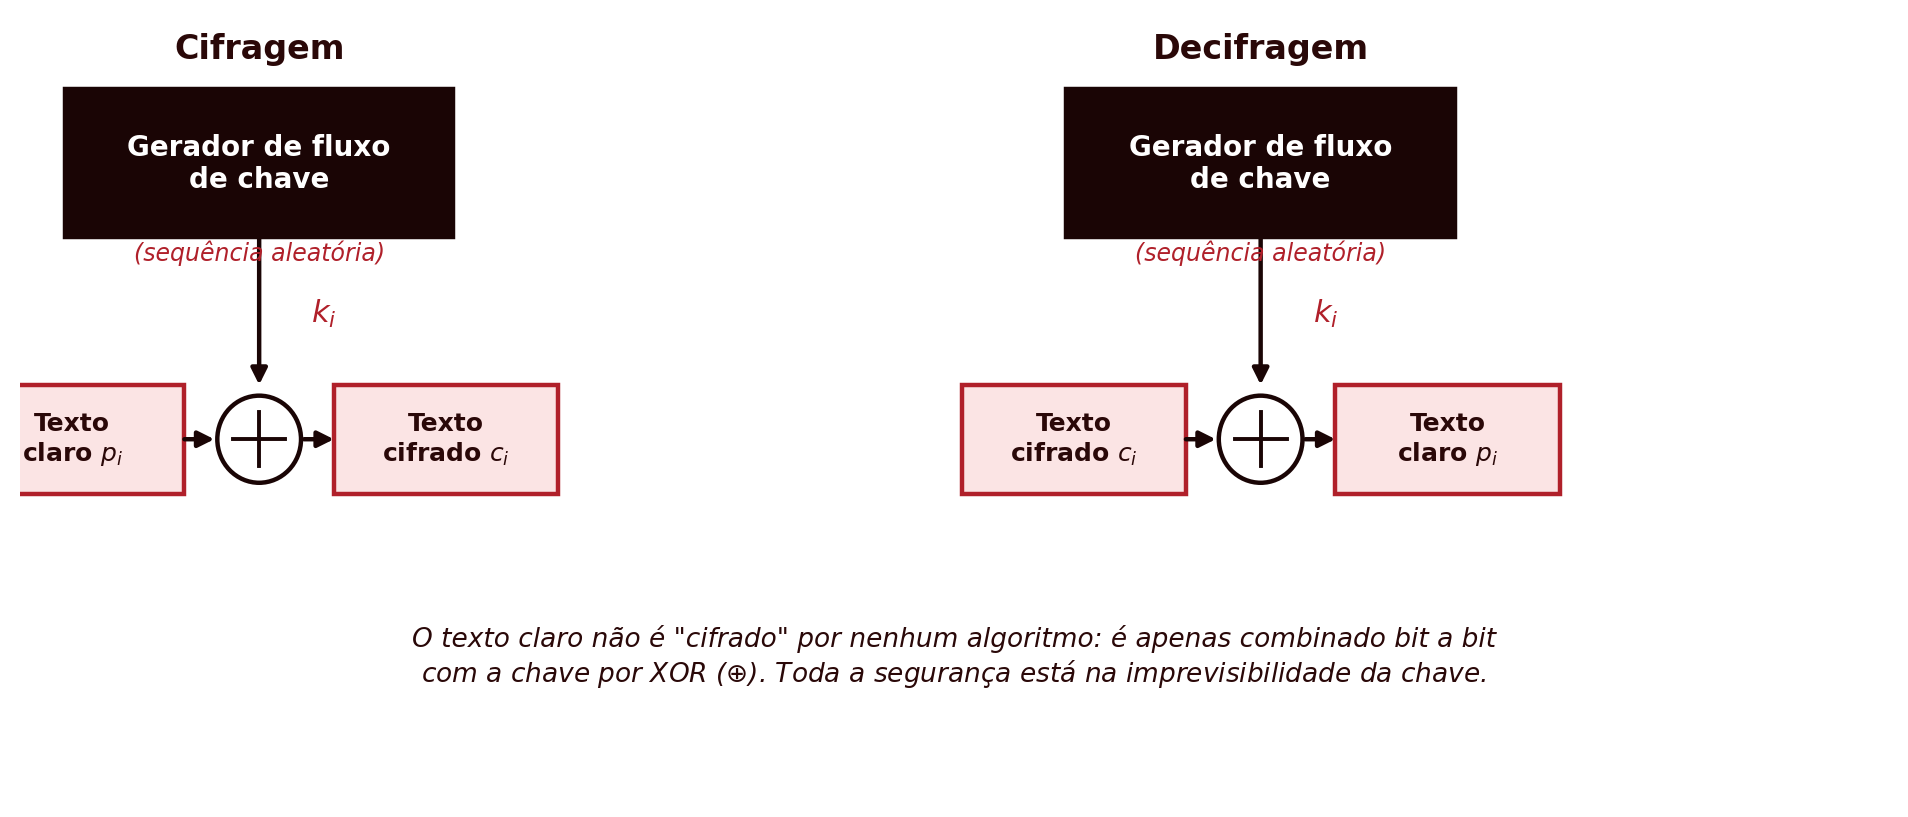
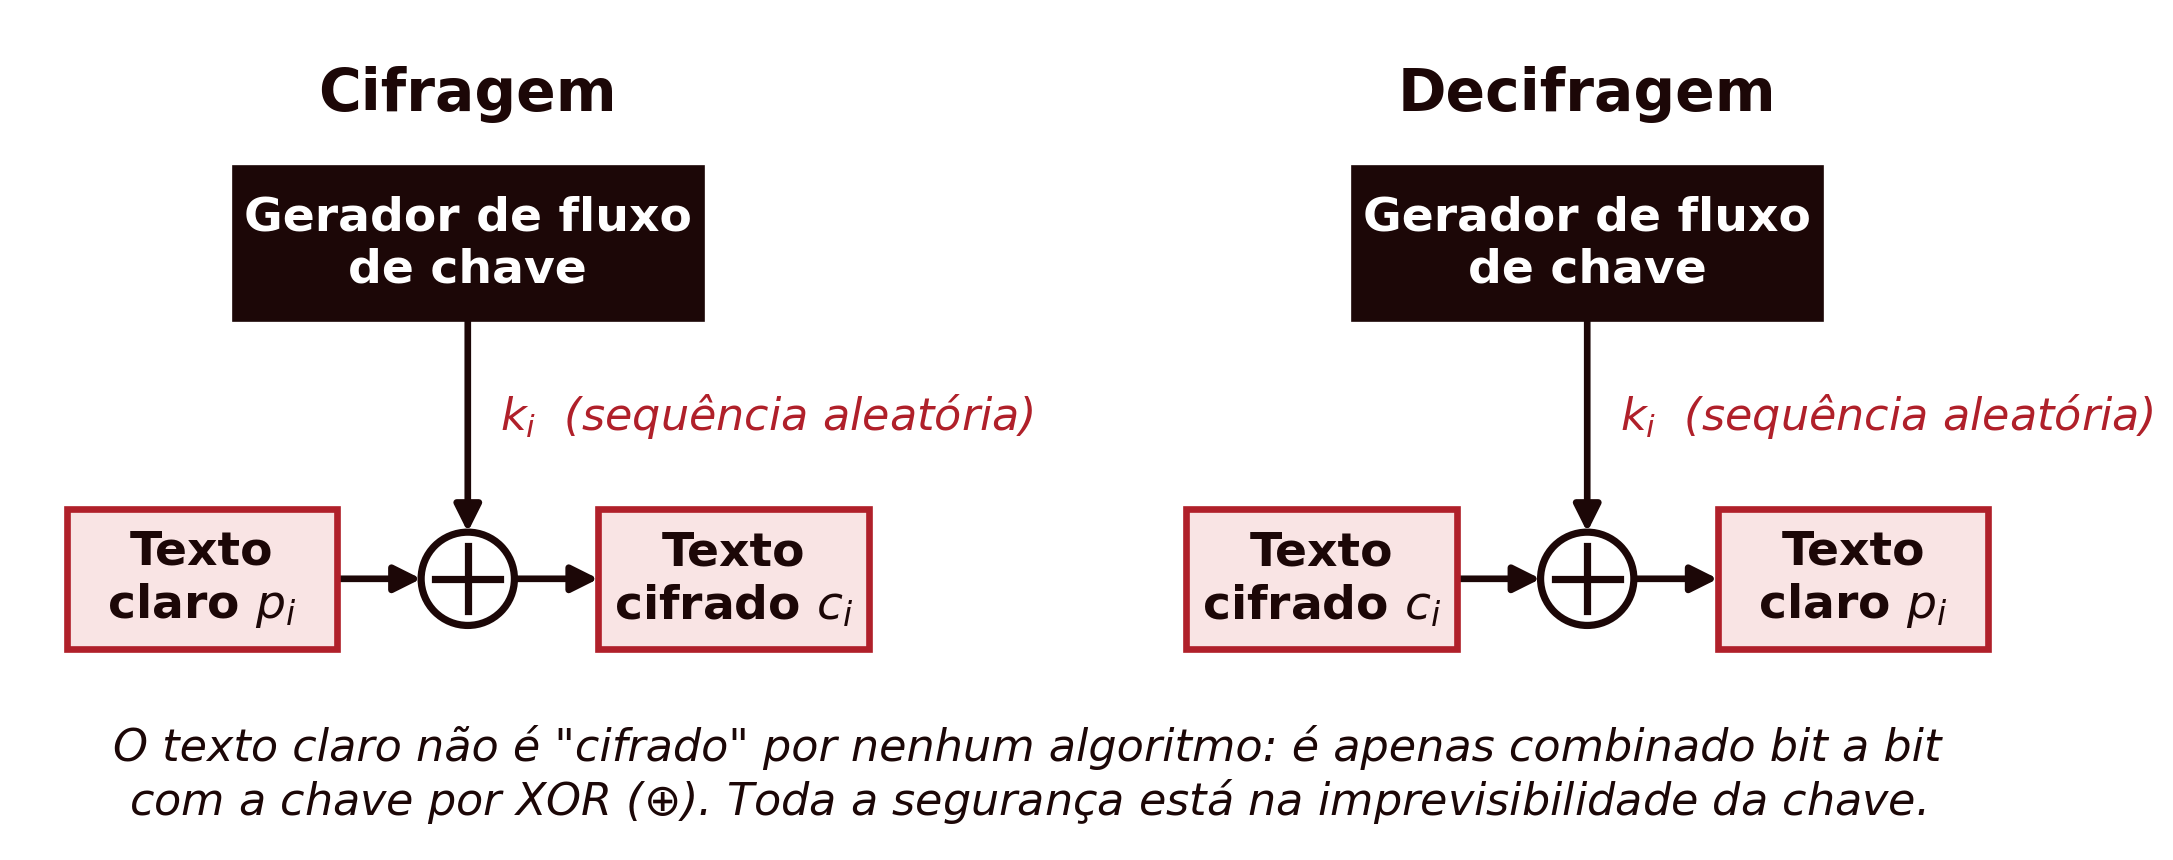
Cap01: figura da cifra de Vernam redesenhada (PT e EN); autor com "regente"
- Figura da cifra de Vernam redesenhada em matplotlib (caixa cortada,
  seta sobre o texto, margens): assets/scripts/gen_fig01_vernam.py gera PT e EN
- Cópias das figuras anteriores em assets/images-reserva/
- Página inicial: "regente da unidade curricular" / "course coordinator"
- docs/ regenerado (PT com PDF, EN)

diff --git a/docs/en/capitulos/cap08.html b/docs/en/capitulos/cap08.html
@@ -419,7 +419,7 @@ Table&nbsp;8.1: Equivalent key sizes for various security levels <span class="ci
 <h2 data-number="8.5" class="anchored" data-anchor-id="sec-08-ecdh"><span class="header-section-number">8.5</span> ECDH: Diffie-Hellman over an Elliptic Curve</h2>
 <p><strong>ECDH</strong> (<em>Elliptic Curve Diffie-Hellman</em>) applies exactly the same logic as classical Diffie-Hellman (Section 7.1-7.3), replacing modular exponentiation with scalar multiplication of points. Alice and Bob publicly agree on a curve and a generator point <span class="math inline">\(G\)</span>, of large order <span class="math inline">\(n\)</span>. Alice chooses a secret integer <span class="math inline">\(d_A\)</span> and computes <span class="math inline">\(Q_A = d_A \cdot G\)</span>; Bob chooses <span class="math inline">\(d_B\)</span> and computes <span class="math inline">\(Q_B = d_B \cdot G\)</span>. They exchange <span class="math inline">\(Q_A\)</span> and <span class="math inline">\(Q_B\)</span> publicly, and each computes the shared secret:</p>
 <p><span class="math display">\[K = d_A \cdot Q_B = d_A \cdot (d_B \cdot G) = (d_A d_B) \cdot G = d_B \cdot (d_A \cdot G) = d_B \cdot Q_A\]</span></p>
-<p>The structure is identical to that of Figure <a href="cap07.html#fig-07-dh" class="quarto-xref"><span>7.1</span></a> in the previous chapter: only the underlying mathematical operation changes, modular exponentiation in one case, scalar multiplication of points in the other. The difficulty of recovering <span class="math inline">\(d_A\)</span> or <span class="math inline">\(d_B\)</span> from <span class="math inline">\(Q_A\)</span>, <span class="math inline">\(Q_B\)</span> and <span class="math inline">\(G\)</span> is exactly the ECDLP of Section 8.3.</p>
+<p>The structure is identical to that of Figure <a href="cap07.html#fig-07-dh" class="quarto-xref"><span>7.2</span></a> in the previous chapter: only the underlying mathematical operation changes, modular exponentiation in one case, scalar multiplication of points in the other. The difficulty of recovering <span class="math inline">\(d_A\)</span> or <span class="math inline">\(d_B\)</span> from <span class="math inline">\(Q_A\)</span>, <span class="math inline">\(Q_B\)</span> and <span class="math inline">\(G\)</span> is exactly the ECDLP of Section 8.3.</p>
 </section>
 <section id="sec-08-ecdsa" class="level2" data-number="8.6">
 <h2 data-number="8.6" class="anchored" data-anchor-id="sec-08-ecdsa"><span class="header-section-number">8.6</span> ECDSA and Curves Used in Practice</h2>

diff --git a/docs/index.html b/docs/index.html
@@ -308,7 +308,7 @@ pre > code.sourceCode > span > a:first-child::before { text-decoration: underlin
 </section>
 <section id="autor" class="level2 unnumbered">
 <h2 class="unnumbered anchored" data-anchor-id="autor">Autor</h2>
-<p><strong>João Pavão</strong> — UTAD</p>
+<p><strong>João Pavão</strong>, regente da unidade curricular (UTAD)</p>
 
 
 <!-- -->
@@ -972,7 +972,7 @@ window.document.addEventListener("DOMContentLoaded", function (event) {
 <span id="cb1-32"><a href="#cb1-32" aria-hidden="true" tabindex="-1"></a></span>
 <span id="cb1-33"><a href="#cb1-33" aria-hidden="true" tabindex="-1"></a><span class="fu">## Autor {.unnumbered}</span></span>
 <span id="cb1-34"><a href="#cb1-34" aria-hidden="true" tabindex="-1"></a></span>
-<span id="cb1-35"><a href="#cb1-35" aria-hidden="true" tabindex="-1"></a>**João Pavão** — UTAD</span></code><button title="Copiar para a área de transferência" class="code-copy-button" data-in-quarto-modal=""><i class="bi"></i></button></pre></div>
+<span id="cb1-35"><a href="#cb1-35" aria-hidden="true" tabindex="-1"></a>**João Pavão**, regente da unidade curricular (UTAD)</span></code><button title="Copiar para a área de transferência" class="code-copy-button" data-in-quarto-modal=""><i class="bi"></i></button></pre></div>
 </div></div></div></div></div>
 </div> <!-- /content -->
 <footer class="footer">

diff --git a/docs/en/index.html b/docs/en/index.html
@@ -309,7 +309,7 @@ pre > code.sourceCode > span > a:first-child::before { text-decoration: underlin
 </section>
 <section id="author" class="level2 unnumbered">
 <h2 class="unnumbered anchored" data-anchor-id="author">Author</h2>
-<p><strong>João Pavão</strong> — UTAD</p>
+<p><strong>João Pavão</strong>, course coordinator (UTAD)</p>
 
 
 <!-- -->
@@ -974,7 +974,7 @@ window.document.addEventListener("DOMContentLoaded", function (event) {
 <span id="cb1-33"><a href="#cb1-33" aria-hidden="true" tabindex="-1"></a></span>
 <span id="cb1-34"><a href="#cb1-34" aria-hidden="true" tabindex="-1"></a><span class="fu">## Author {.unnumbered}</span></span>
 <span id="cb1-35"><a href="#cb1-35" aria-hidden="true" tabindex="-1"></a></span>
-<span id="cb1-36"><a href="#cb1-36" aria-hidden="true" tabindex="-1"></a>**João Pavão** — UTAD</span></code><button title="Copy to Clipboard" class="code-copy-button" data-in-quarto-modal=""><i class="bi"></i></button></pre></div>
+<span id="cb1-36"><a href="#cb1-36" aria-hidden="true" tabindex="-1"></a>**João Pavão**, course coordinator (UTAD)</span></code><button title="Copy to Clipboard" class="code-copy-button" data-in-quarto-modal=""><i class="bi"></i></button></pre></div>
 </div></div></div></div></div>
 </div> <!-- /content -->
 <footer class="footer">

diff --git a/docs/capitulos/cap01.html b/docs/capitulos/cap01.html
@@ -1419,6 +1419,10 @@ Encryption Standard (AES).”</span> FIPS PUB 197. NIST.
 ———. 2015. <span>“Secure Hash Standard (SHS).”</span> FIPS PUB 180-4.
 NIST.
 </div>
+<div id="ref-FIPS1865" class="csl-entry" role="listitem">
+———. 2023. <span>“Digital Signature Standard (DSS).”</span> FIPS 186-5.
+NIST.
+</div>
 <div id="ref-FIPS204" class="csl-entry" role="listitem">
 ———. 2024a. <span>“Module-Lattice-Based Digital Signature
 Standard.”</span> FIPS PUB 204. NIST.

diff --git a/docs/en/capitulos/cap01.html b/docs/en/capitulos/cap01.html
@@ -1232,6 +1232,10 @@ Encryption Standard (AES).”</span> FIPS PUB 197. NIST.
 ———. 2015. <span>“Secure Hash Standard (SHS).”</span> FIPS PUB 180-4.
 NIST.
 </div>
+<div id="ref-FIPS1865" class="csl-entry" role="listitem">
+———. 2023. <span>“Digital Signature Standard (DSS).”</span> FIPS 186-5.
+NIST.
+</div>
 <div id="ref-FIPS204" class="csl-entry" role="listitem">
 ———. 2024a. <span>“Module-Lattice-Based Digital Signature
 Standard.”</span> FIPS PUB 204. NIST.

diff --git a/assets/scripts/gen_fig01_vernam.py b/assets/scripts/gen_fig01_vernam.py
@@ -1,0 +1,82 @@
+"""Figura do Cap01 / Aula 1: cifra de Vernam (cifragem e decifragem por XOR).
+
+Uso: python gen_fig01_vernam.py <pasta_saida> [pt|en]
+"""
+import sys
+from pathlib import Path
+
+import matplotlib
+matplotlib.use("Agg")
+import matplotlib.pyplot as plt
+from matplotlib.patches import Rectangle, Circle
+
+DARK = "#1c0707"
+RED = "#b0202a"
+PINK = "#f9e4e4"
+FS = 17
+
+out = Path(sys.argv[1] if len(sys.argv) > 1 else ".")
+LANG = sys.argv[2] if len(sys.argv) > 2 else "pt"
+
+T = {
+    "pt": dict(enc="Cifragem", dec="Decifragem", gen="Gerador de fluxo\nde chave",
+               seq="(sequência aleatória)", plain="Texto\nclaro $p_i$",
+               cipher="Texto\ncifrado $c_i$", file="fig-01-vernam-gerador.png", bw=2.9,
+               note="O texto claro não é \"cifrado\" por nenhum algoritmo: é apenas combinado bit a bit\n"
+                    "com a chave por XOR ($\\oplus$). Toda a segurança está na imprevisibilidade da chave."),
+    "en": dict(enc="Encryption", dec="Decryption", gen="Keystream\ngenerator",
+               seq="(random sequence)", plain="Plaintext\n$p_i$",
+               cipher="Ciphertext\n$c_i$", file="fig-01-vernam-gerador-en.png", bw=3.7,
+               note="The plaintext is not \"encrypted\" by any algorithm: it is simply combined bit by bit\n"
+                    "with the key via XOR ($\\oplus$). All the security lies in the unpredictability of the key."),
+}[LANG]
+
+
+def box(ax, cx, cy, w, h, text, dark=False, fill="white", fs=FS):
+    ax.add_patch(Rectangle((cx - w / 2, cy - h / 2), w, h,
+                           facecolor=DARK if dark else fill,
+                           edgecolor=DARK if dark else RED, lw=2.4, zorder=2))
+    ax.text(cx, cy, text, ha="center", va="center", fontsize=fs,
+            color="white" if dark else DARK, fontweight="bold", zorder=3)
+
+
+def arrow(ax, x0, y0, x1, y1):
+    ax.annotate("", xy=(x1, y1), xytext=(x0, y0),
+                arrowprops=dict(arrowstyle="-|>", color=DARK, lw=2.4,
+                                mutation_scale=20, shrinkA=0, shrinkB=0),
+                zorder=1)
+
+
+def panel(ax, cx, title, left_text, right_text):
+    ax.text(cx, 8.2, title, ha="center", va="center", fontsize=FS + 4,
+            fontweight="bold", color=DARK)
+    box(ax, cx, 6.6, 5.0, 1.6, T["gen"], dark=True)
+    xy, r = 3.0, 0.5
+    arrow(ax, cx, 5.8, cx, xy + r)
+    ax.text(cx + 0.35, 4.75, r"$k_i$  " + T["seq"], ha="left",
+            va="center", fontsize=FS - 1, color=RED, style="italic")
+    ax.add_patch(Circle((cx, xy), r, facecolor="white", edgecolor=DARK,
+                        lw=2.6, zorder=2))
+    ax.plot([cx - r * 0.7, cx + r * 0.7], [xy, xy], color=DARK, lw=2.6, zorder=3)
+    ax.plot([cx, cx], [xy - r * 0.7, xy + r * 0.7], color=DARK, lw=2.6, zorder=3)
+    bw, bh, gap = T["bw"], 1.5, 0.9
+    box(ax, cx - r - gap - bw / 2, xy, bw, bh, left_text, fill=PINK)
+    box(ax, cx + r + gap + bw / 2, xy, bw, bh, right_text, fill=PINK)
+    arrow(ax, cx - r - gap, xy, cx - r, xy)
+    arrow(ax, cx + r, xy, cx + r + gap, xy)
+
+
+fig, ax = plt.subplots(figsize=(13, 5.6), dpi=200)
+ax.set_xlim(-0.5 - T["bw"] - 1.4, 12.5 + T["bw"] + 1.4)
+ax.set_ylim(0.2, 9.0)
+ax.set_aspect("equal")
+ax.axis("off")
+
+panel(ax, 0.0, T["enc"], T["plain"], T["cipher"])
+panel(ax, 12.0, T["dec"], T["cipher"], T["plain"])
+
+ax.text(6.0, 0.9, T["note"], ha="center", va="center", fontsize=FS - 1,
+        color=DARK, style="italic")
+
+fig.savefig(out / T["file"], bbox_inches="tight", pad_inches=0.1)
+plt.close(fig)
